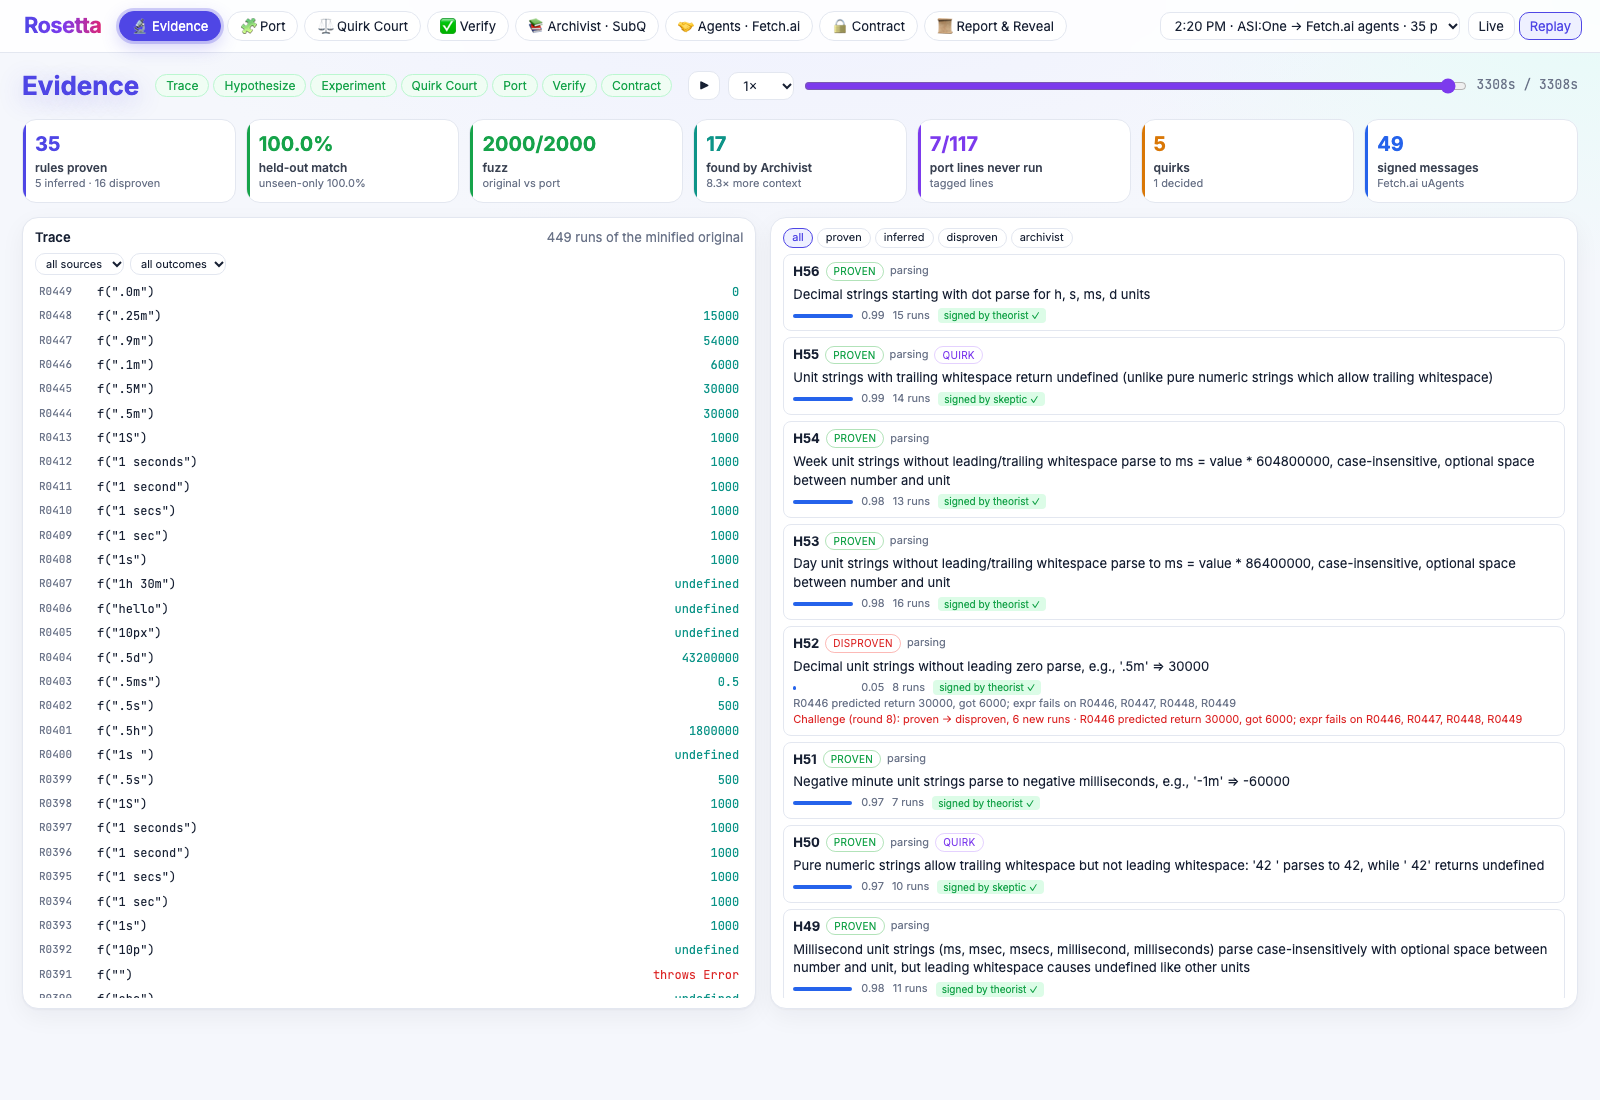
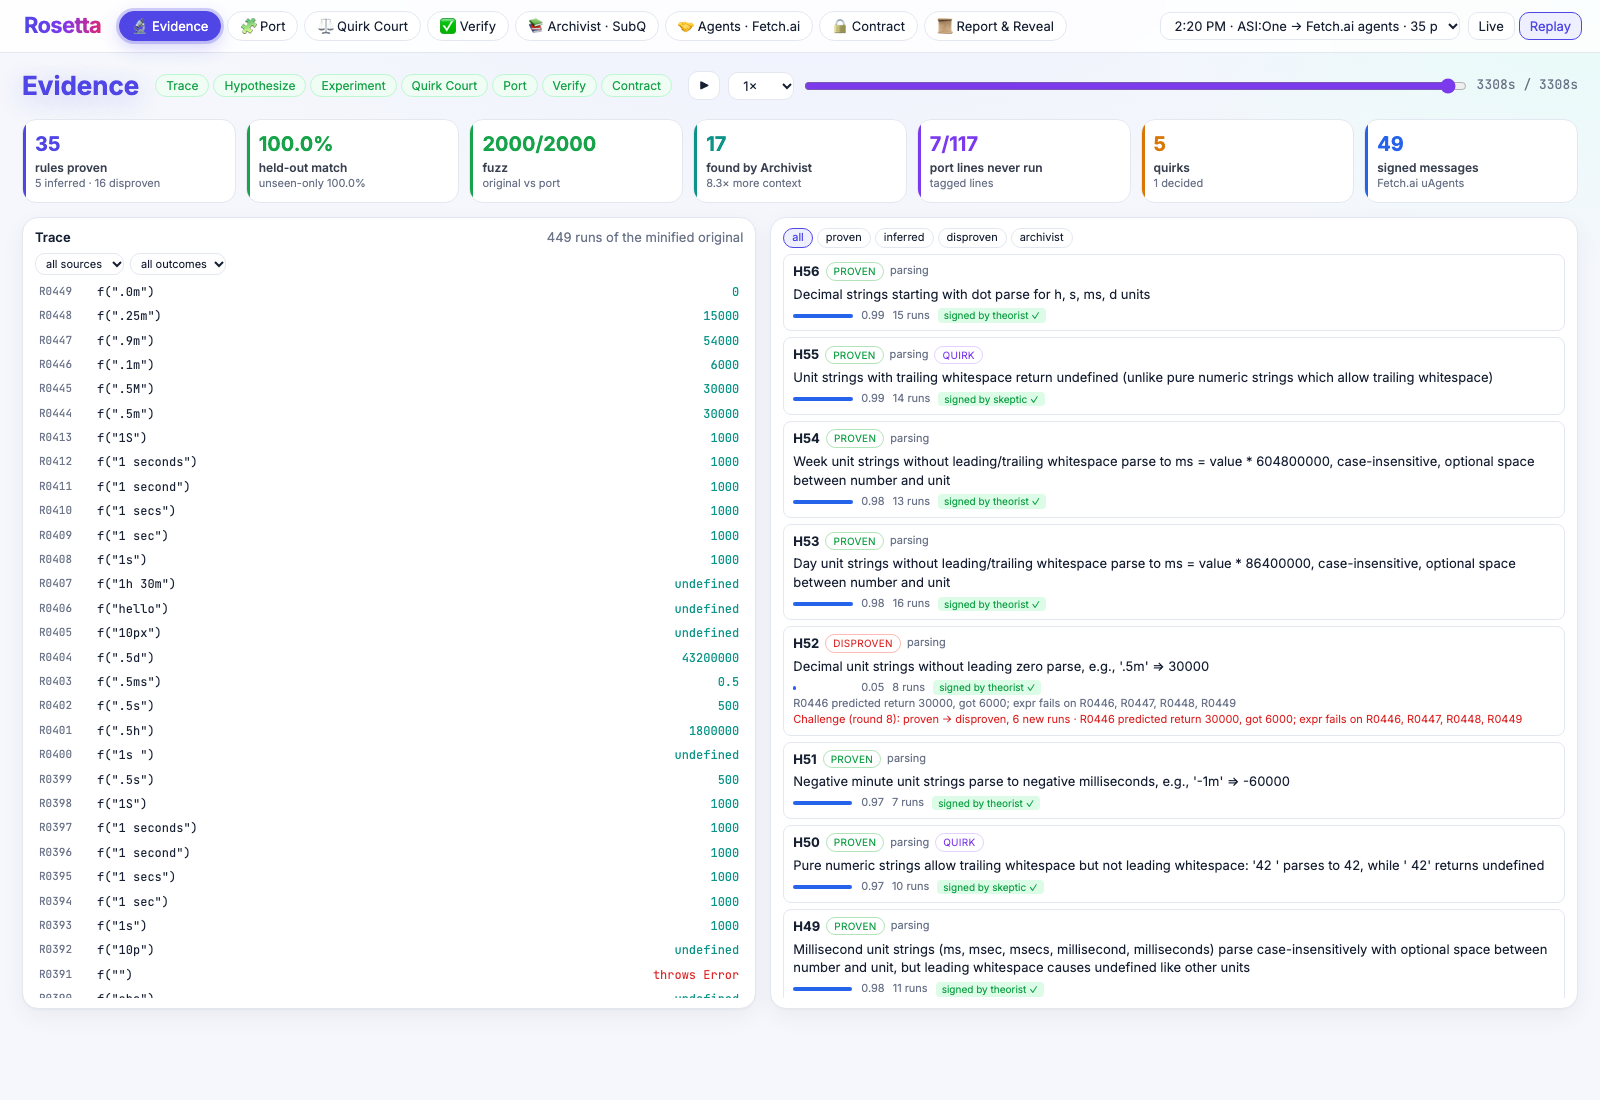
retake readme screenshots

diff --git a/ui/src/PortViewer.tsx b/ui/src/PortViewer.tsx
@@ -18,7 +18,8 @@ export function lineColor(view: View, line: { hids: string[]; executed?: boolean
 }
 
 export function PortViewer({ view, selected, onSelect }: { view: View; selected: string[]; onSelect: (h: string[]) => void }) {
-  const [version, setVersion] = useState<number | null>(null);
+  // ?port=N opens a specific port version (e.g. the Meta-written one) for links / screenshots
+  const [version, setVersion] = useState<number | null>(() => { const v = new URLSearchParams(location.search).get("port"); return v ? Number(v) : null; });
   const ports = view.ports.filter((p: any) => p.compileOk);
   const port = ports.find((p: any) => p.version === version) ?? view.port;
   const edRef = useRef<Ed | null>(null);

diff --git a/README.md b/README.md
@@ -5,7 +5,7 @@
 AIE Code Summit Hackathon · Nov 7 2026 · Track: **Software Archaeology** · Solo build · Repo: https://github.com/KamayaniR/rosetta
 
 ![Rosetta home](docs/screenshots/00-home.png)
-*The home screen for a real session started from ASI:One and run by the Fetch.ai agents: 443 runs of the minified original, 36 proven rules (every one signed by the agent that made it), a TypeScript port by Meta Muse Spark with each line colored by its evidence, 100% on a held-out set no agent ever saw, and 17 rules found only by the SubQ Archivist. Each button opens one section.*
+*The home screen for a real session started from ASI:One and run by the Fetch.ai agents: 449 runs of the minified original, 35 proven rules (every one signed by the agent that made it), a TypeScript port by Meta Muse Spark with each line colored by its evidence, 100% on a held-out set no agent ever saw, and 17 rules found only by the SubQ Archivist. Each button opens one section.*
 
 ---
 
@@ -52,11 +52,11 @@ Two real sessions from today, read straight from the stored reports:
 | | **Session A**: started from **ASI:One**, run by **signed Fetch.ai agents** (`s_20261107222044_b7b2`) | **Session B**: main demo, with a Quirk Court **Fix** applied (`s_20261107212548_b7e9`) |
 |---|---|---|
 | Runs of the minified original | 443 | 470 |
-| Rules **proven** / inferred / disproven | **36** / 5 / 15 | **39** / 4 / 12 |
+| Rules **proven** / inferred / disproven | **35** / 5 / 16 (one disproven by a live Challenge) | **39** / 4 / 12 |
 | Rules found **only by the Archivist** (SubQ) | 17 | 18 |
 | Archivist context vs Theorist context | **70,758 vs 8,537 tokens (8.3×)** | **70,887 vs 8,857 tokens (8.0×)** |
 | Port written by | **Meta Muse Spark** (`muse-spark-1.1`) | **Meta Muse Spark** |
-| Port agreement with all observations | 436/436 + 7 intentional (Fix H3, decided in ASI:One) | **448/448** + 22 intentional (Fix H25) |
+| Port agreement with all observations | v2 by Muse Spark: 436/436 + 7 intentional (Fix H3, decided in ASI:One) | **448/448** + 22 intentional (Fix H25) |
 | Differential fuzz (fast-check) | **2000/2000** | **1759/1759** (+241 Fix-covered inputs checked against the fix) |
 | **Held-out** (500 inputs, fixed seed, never shown to any agent) | **100%** | **100%** |
 | Held-out, strict *unseen-only* subset | **463/463** | **400/400** |
@@ -88,6 +88,7 @@ Each quirk card shows the rule, why it is surprising, real example runs and a su
 
 ### 2b. Challenge a rule, live
 ![Challenge](docs/screenshots/13-challenge.png)
+*Session A: the H52 card shows a live Challenge that disproved it; its six challenge runs (`.1m`, `.9m`, `.25m`, `.0m`, …) are at the top of Trace.*
 Every rule card has a **Challenge** button (live mode). It runs one targeted experiment round on just that rule. Here, challenging **H49** ("long format uses a 1.5× plural threshold for hours"): Muse Spark designed 7 new inputs right at the boundary (`f(5399999, {long:true})` → `"1 hour"`, `f(5400000)` → `"2 hours"`, `f(5400001)` → `"2 hours"`, runs R0471–R0477 at the top of Trace), and the rule **held** ("challenged, held: 7 predictions"). A rule that breaks under a challenge is disproven with the counterexample, and the Theorist immediately proposes a corrected rule, which is tested in the same request. Example: H52's predicate said every `.Nm` string returns 30000 (it had generalized from its one example `.5m`); a challenge ran `.1m` → 6000, `.25m` → 15000, `.0m` → 0 and disproved it. The behavior was fine; the rule was overfitted, which is exactly what a challenge should catch. **Stop session** in the top bar stops a running session in either orchestrator: running steps finish, and no new step starts.
 
 ### 3. Verify: equivalence, held-out, properties, divergences, conflicts, security
